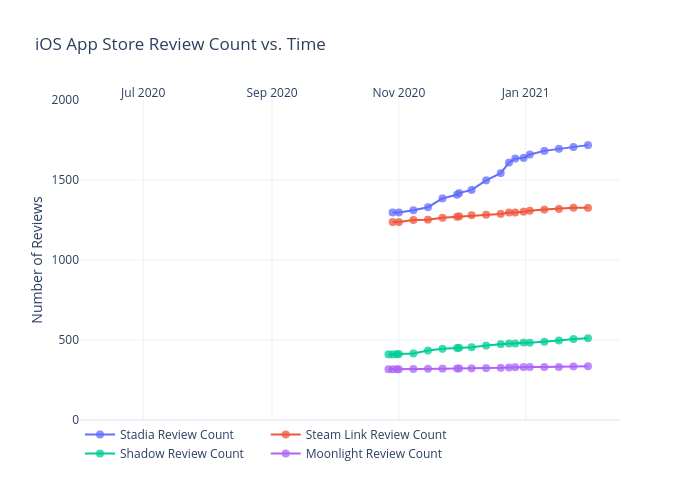
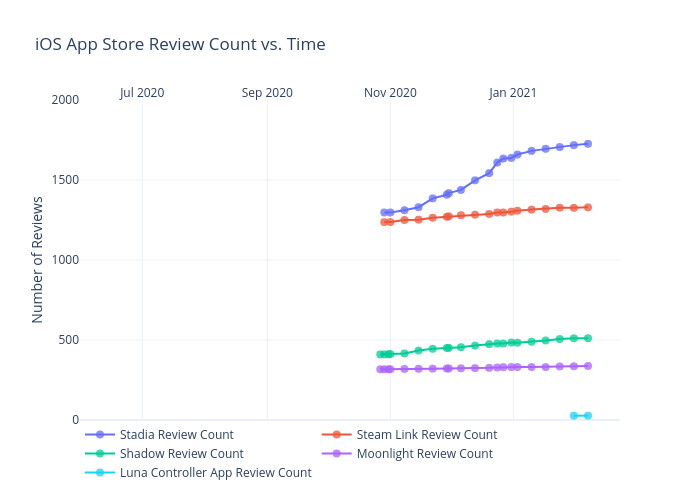
Add files via upload

diff --git a/iosappstore/figure.js b/iosappstore/figure.js
@@ -59,7 +59,8 @@ var figure = {
                 "1682",
                 "1695",
                 "1706",
-                "1718"
+                "1718",
+                "1726"
             ],
             "marker": {
                 "size": 8,
@@ -128,7 +129,8 @@ var figure = {
                 "1315",
                 "1319",
                 "1327",
-                "1326"
+                "1326",
+                "1329"
             ],
             "marker": {
                 "size": 8,
@@ -197,6 +199,7 @@ var figure = {
                 "489",
                 "497",
                 "506",
+                "511",
                 "511"
             ],
             "marker": {
@@ -266,7 +269,78 @@ var figure = {
                 "331",
                 "331",
                 "335",
-                "336"
+                "336",
+                "338"
+            ],
+            "marker": {
+                "size": 8,
+                "opacity": 0.75
+            },
+            "stackgroup": null,
+            "connectgaps": true,
+            "hovertemplate": "%{x}, %{y}"
+        },
+        {
+            "meta": {
+                "columnNames": {
+                    "x": "Date",
+                    "y": "Luna Controller App Review Count"
+                }
+            },
+            "mode": "markers+lines",
+            "name": "%{meta.columnNames.y}",
+            "type": "scatter",
+            "xsrc": "jdeslip:364:384977",
+            "x": [
+                "Date",
+                "2020-06-16",
+                "2020-10-27",
+                "2020-10-29",
+                "2020-10-31",
+                "2020-11-01",
+                "2020-11-08",
+                "2020-11-15",
+                "2020-11-22",
+                "2020-11-29",
+                "2020-11-30",
+                "2020-12-06",
+                "2020-12-13",
+                "2020-12-20",
+                "2020-12-24",
+                "2020-12-27",
+                "2020-12-31",
+                "2021-01-03",
+                "2021-01-10",
+                "2021-01-17",
+                "2021-01-24",
+                "2021-01-31",
+                "2021-02-07"
+            ],
+            "ysrc": "jdeslip:364:d976ec",
+            "y": [
+                "Luna Controller App Review Count",
+                null,
+                null,
+                null,
+                null,
+                null,
+                null,
+                null,
+                null,
+                null,
+                null,
+                null,
+                null,
+                null,
+                null,
+                null,
+                null,
+                null,
+                null,
+                null,
+                null,
+                "27",
+                "27"
             ],
             "marker": {
                 "size": 8,
@@ -285,8 +359,8 @@ var figure = {
             "side": "top",
             "type": "date",
             "range": [
-                "2020-06-01 20:11:06.742",
-                "2021-02-14 03:48:53.258"
+                "2020-06-01 09:47:52.2756",
+                "2021-02-21 14:12:07.7244"
             ],
             "title": {
                 "text": ""
